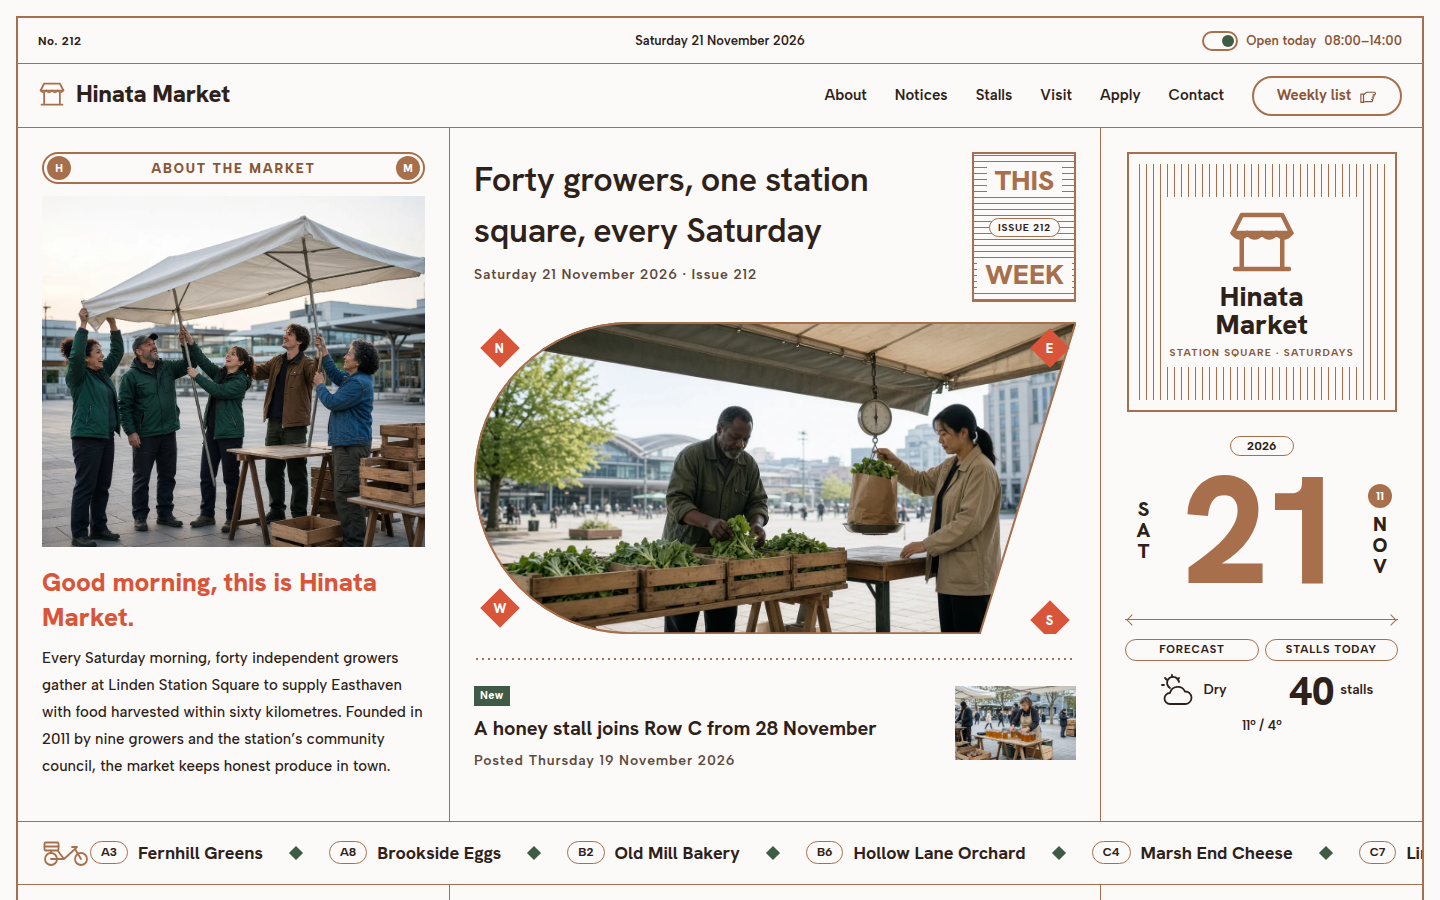
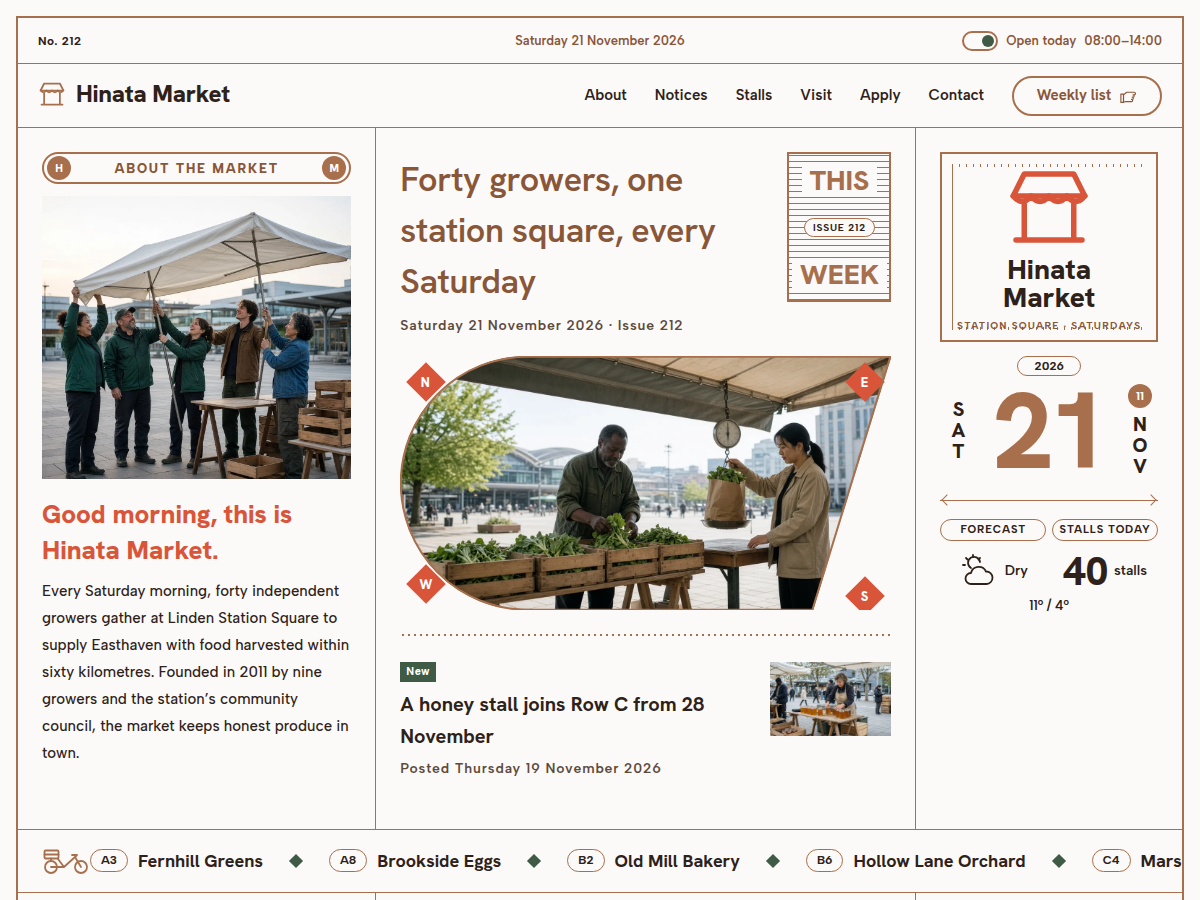
hinata-market: stage 2 home fixes (heading colour, stamp, mobile season band, screenshot)

diff --git a/themes/hinata-market/style.css b/themes/hinata-market/style.css
@@ -68,7 +68,7 @@ body { overflow-wrap: break-word; -webkit-font-smoothing: antialiased; }
 .hm-header, .hm-footer-part { display: block; }
 .hm-masthead { display: grid; grid-template-columns: 1fr auto 1fr; align-items: center; height: 46px; padding: 0 20px; border-bottom: 1px solid var(--hm-russet); box-sizing: border-box; }
 :root .hm-mast__issue { margin: 0; justify-self: start; font: 700 .75rem/1 var(--hm-body); letter-spacing: .04em; }
-:root .hm-mast__date { margin: 0; font: 600 .8125rem/1 var(--hm-body); }
+:root .hm-mast__date { margin: 0; color: var(--hm-deep); font: 600 .8125rem/1 var(--hm-body); }
 :root .hm-mast__hours { margin: 0; justify-self: end; display: flex; align-items: center; gap: 8px; color: var(--hm-deep); font: 600 .8125rem/1 var(--hm-body); }
 .hm-mob { display: none; }
 .hm-toggle { position: relative; flex: none; width: 36px; height: 20px; box-sizing: border-box; border: 2px solid var(--hm-russet); border-radius: 999px; }
@@ -77,7 +77,7 @@ body { overflow-wrap: break-word; -webkit-font-smoothing: antialiased; }
 :root .hm-wordmark { margin: 0 auto 0 0; font: 800 1.5rem/1 var(--hm-display); letter-spacing: -.01em; }
 .hm-wordmark a { display: inline-flex; align-items: center; gap: 10px; text-decoration: none; color: var(--hm-ink); }
 .hm-glyph { display: inline-block; flex: none; width: 28px; height: 28px; background: var(--hm-russet); -webkit-mask: var(--hm-i-awning) center / contain no-repeat; mask: var(--hm-i-awning) center / contain no-repeat; }
-.hm-glyph--big { width: 72px; height: 72px; }
+:root .hm-glyph--big { width: 88px; height: 88px; background: var(--hm-point); }
 .hm-glyph--bike { width: 48px; height: 28px; -webkit-mask-image: var(--hm-i-bike); mask-image: var(--hm-i-bike); }
 .hm-glyph--wx { width: 40px; height: 40px; background: var(--hm-ink); -webkit-mask-image: var(--hm-i-wx); mask-image: var(--hm-i-wx); }
 .hm-nav { flex: none; }
@@ -117,11 +117,11 @@ body { overflow-wrap: break-word; -webkit-font-smoothing: antialiased; }
 :root .hm-label { display: flex; align-items: center; justify-content: space-between; gap: 12px; box-sizing: border-box; height: 32px; margin: 0 0 12px; padding: 0 3px; border: 2px solid var(--hm-russet); border-radius: 999px; color: var(--hm-deep); font: 800 .8125rem/1 var(--hm-body); letter-spacing: .14em; text-transform: uppercase; }
 .hm-label__dot { display: grid; place-items: center; flex: none; width: 24px; height: 24px; border-radius: 50%; background: var(--hm-russet); color: #fff; font: 800 .6875rem/1 var(--hm-display); letter-spacing: 0; }
 :root .hm-label--double { height: 46px; justify-content: center; margin-bottom: 14px; border-radius: 0; outline: 1px solid var(--hm-russet); outline-offset: -6px; font: 800 1.125rem/1.2 var(--hm-display); letter-spacing: 0; text-transform: none; }
-:root .hm-body { margin: 0 0 14px; font: 500 .9375rem/1.8 var(--hm-body); }
+:root .hm-body { font-variant-numeric: lining-nums; font-feature-settings: "lnum" 1, "ss01" 0; margin: 0 0 14px; font: 500 .9375rem/1.8 var(--hm-body); }
 :root .hm-sign { margin: 0 0 18px; font: 600 .9375rem/1.6 var(--hm-body); color: var(--hm-deep); }
 :root .hm-greeting { margin: 18px 0 10px; color: var(--hm-point); font: 800 1.625rem/1.35 var(--hm-display); }
-:root .hm-h2 { margin: 0; font: 700 2.125rem/1.3 var(--hm-display); letter-spacing: -.005em; }
-:root .hm-h1 { margin: 0 0 12px; font: 700 var(--wp--preset--font-size--xxl)/1.2 var(--hm-display); letter-spacing: -.01em; }
+:root .hm-h2 { margin: 0; color: var(--hm-deep); font: 700 2.125rem/1.3 var(--hm-display); letter-spacing: -.005em; }
+:root .hm-h1 { margin: 0 0 12px; color: var(--hm-deep); font: 700 var(--wp--preset--font-size--xxl)/1.2 var(--hm-display); letter-spacing: -.01em; }
 .hm-photo { margin: 0; }
 .hm-photo img { display: block; width: 100%; height: 100%; object-fit: cover; }
 .hm-photo--profile { aspect-ratio: 382 / 350; }
@@ -129,14 +129,14 @@ body { overflow-wrap: break-word; -webkit-font-smoothing: antialiased; }
 
 /* T3 notice rows: title + date, 121x74 thumbnail at the right */
 .hm-row { display: grid; grid-template-columns: 1fr 121px; gap: 24px; align-items: start; padding: 26px 0; }
-:root .hm-row__title { margin: 0; font: 700 1.25rem/1.6 var(--hm-display); }
+:root .hm-row__title { margin: 0; color: var(--hm-deep); font: 700 1.25rem/1.6 var(--hm-display); }
 :root .hm-row__date { margin: 6px 0 0; color: var(--hm-soft); font: 600 .875rem/1.5 var(--hm-body); letter-spacing: .06em; }
 .hm-row__thumb { width: 121px; height: 74px; margin: 0; }
 .hm-row__thumb img { display: block; width: 100%; height: 100%; object-fit: cover; }
 
 /* ---------- home 1: front ---------- */
 .hm-leadhead { display: grid; grid-template-columns: 1fr 104px; gap: 16px; align-items: start; }
-:root .hm-lead-h1 { margin: 2px 0 8px; font: 600 2.125rem/1.5 var(--hm-display); letter-spacing: -.01em; }
+:root .hm-lead-h1 { margin: 2px 0 8px; color: var(--hm-deep); font: 600 2.125rem/1.5 var(--hm-display); letter-spacing: -.01em; }
 :root .hm-leadhead__date { margin: 0; color: var(--hm-soft); font: 600 .875rem/1.5 var(--hm-body); letter-spacing: .06em; }
 .hm-tag { display: grid; justify-items: center; align-content: space-between; box-sizing: border-box; width: 104px; min-height: 150px; padding: 12px 0; border: 2px solid var(--hm-russet); background: var(--hm-hatch-h); }
 :root .hm-tag__w { margin: 0; padding: 0 8px; background: var(--hm-paper); color: var(--hm-russet); font: 800 1.75rem/1 var(--hm-display); text-transform: uppercase; }
@@ -160,13 +160,13 @@ body { overflow-wrap: break-word; -webkit-font-smoothing: antialiased; }
 .hm-front > .hm-col--mid > .hm-dots { margin-top: 24px; }
 
 /* T2 date stamp card */
-.hm-stamp { box-sizing: border-box; position: relative; display: grid; place-items: center; width: 100%; max-width: 270px; aspect-ratio: 270 / 260; margin: 0 auto; border: 2px solid var(--hm-russet); }
+.hm-stamp { box-sizing: border-box; position: relative; display: grid; place-items: center; width: 100%; max-width: 270px; aspect-ratio: 270 / 236; margin: 0 auto; border: 2px solid var(--hm-russet); }
 .hm-stamp::before { content: ""; position: absolute; inset: 10px; background: var(--hm-hatch-v); }
-.hm-stamp__in { position: relative; display: grid; justify-items: center; align-content: center; gap: 4px; width: 190px; max-width: calc(100% - 20px); height: 170px; background: var(--hm-paper); text-align: center; }
+.hm-stamp__in { position: relative; display: grid; justify-items: center; align-content: center; gap: 4px; width: 190px; max-width: calc(100% - 20px); height: 160px; background: var(--hm-paper); text-align: center; }
 :root .hm-stamp__glyph { margin: 0; line-height: 0; }
 :root .hm-stamp__name { margin: 0; font: 800 1.75rem/1 var(--hm-display); }
 :root .hm-stamp__sub { margin: 4px 0 0; color: var(--hm-deep); font: 700 .625rem/1.3 var(--hm-body); letter-spacing: .12em; text-transform: uppercase; }
-.hm-date { margin-top: 24px; text-align: center; }
+.hm-date { margin-top: 14px; text-align: center; }
 :root .hm-date__year { display: block; box-sizing: border-box; width: 64px; height: 20px; margin: 0 auto 6px; border: 1px solid var(--hm-russet); border-radius: 999px; font: 700 .75rem/18px var(--hm-body); }
 .hm-date__row { display: grid; grid-template-columns: 36px 1fr 36px; align-items: center; gap: 4px; }
 :root .hm-date__wd, :root .hm-date__mo { margin: 0; font: 800 1.25rem/1.05 var(--hm-display); }
@@ -182,7 +182,7 @@ body { overflow-wrap: break-word; -webkit-font-smoothing: antialiased; }
 :root .hm-fact { display: flex; align-items: center; justify-content: center; gap: 6px; margin: 0; font: 600 .875rem/1.2 var(--hm-body); }
 .hm-fact b { font: 800 2.5rem/1 var(--hm-display); }
 :root .hm-date__temp { margin: 6px 0 0; font: 600 .8125rem/1.4 var(--hm-body); }
-.hm-today { margin-top: 22px; }
+.hm-today { margin-top: 14px; }
 :root .hm-today__label { box-sizing: border-box; display: grid; place-items: center; height: 46px; margin: 0 0 12px; border: 2px solid var(--hm-russet); outline: 1px solid var(--hm-russet); outline-offset: -6px; color: var(--hm-deep); font: 800 1.25rem/1 var(--hm-display); text-align: center; }
 .hm-photo--today { aspect-ratio: 3 / 2; }
 .hm-photo--today { display: flex; flex-direction: column; }
@@ -229,7 +229,7 @@ body { overflow-wrap: break-word; -webkit-font-smoothing: antialiased; }
 .hm-card__photo { aspect-ratio: 3 / 4; margin: 0 0 14px; outline: 1px solid var(--hm-russet); outline-offset: -1px; }
 .hm-card__photo img { display: block; width: 100%; height: 100%; object-fit: cover; }
 :root .hm-card__code { margin: 0 0 8px; }
-:root .hm-card__name { margin: 0 0 6px; font: 700 1.25rem/1.4 var(--hm-display); }
+:root .hm-card__name { margin: 0 0 6px; color: var(--hm-deep); font: 700 1.25rem/1.4 var(--hm-display); }
 :root .hm-card__line { margin: 0 0 10px; font: 500 .9375rem/1.6 var(--hm-body); }
 :root .hm-card__tag { margin: 0; }
 .hm-new--leaf { margin: 0; }
@@ -367,8 +367,10 @@ html.sp-js:not(.sp-no-motion) .hm-band.sp-parallax > figure > img { scale: 1.22;
 	.hm-sechead { padding: 22px 16px 18px; }
 	.hm-sec > .hm-dots { margin-inline: 16px; }
 	:root .hm-h2 { font-size: 1.75rem; }
-	.hm-band { height: 360px; margin-top: 20px; }
-	.hm-seasoncard { margin-left: 16px; }
+	.hm-band { height: auto; grid-template-rows: 240px auto; margin-top: 20px; }
+	.hm-band > * { grid-area: auto; }
+	.hm-band__photo { height: 240px; overflow: hidden; }
+	.hm-seasoncard { margin: 0 16px 16px; width: auto; max-width: none; align-self: stretch; }
 	.hm-seasoncard__body { padding: 4px 16px 8px; }
 	.hm-discs .hm-disc { width: 32px; height: 32px; font-size: 1rem; }
 	.hm-step__n { font-size: 2.5rem; }

diff --git a/themes/hinata-market/README.md b/themes/hinata-market/README.md
@@ -14,3 +14,7 @@ Navigation: one top menu (About, Notices, Stalls, Visit, Apply, Contact). Fonts:
 Design notes: `brand.md`, `brand/design-spec.md`, `brand/reference.md`.
 
 License: GPL-2.0-or-later.
+
+## Notes
+- Headings and notice titles use the deep russet (`#8A5638`) so the colour carries through the type; body copy stays in ink.
+- Menu items link to real pages (About, Notices, Stalls, Visit, Apply, Contact) created by the demo import.
